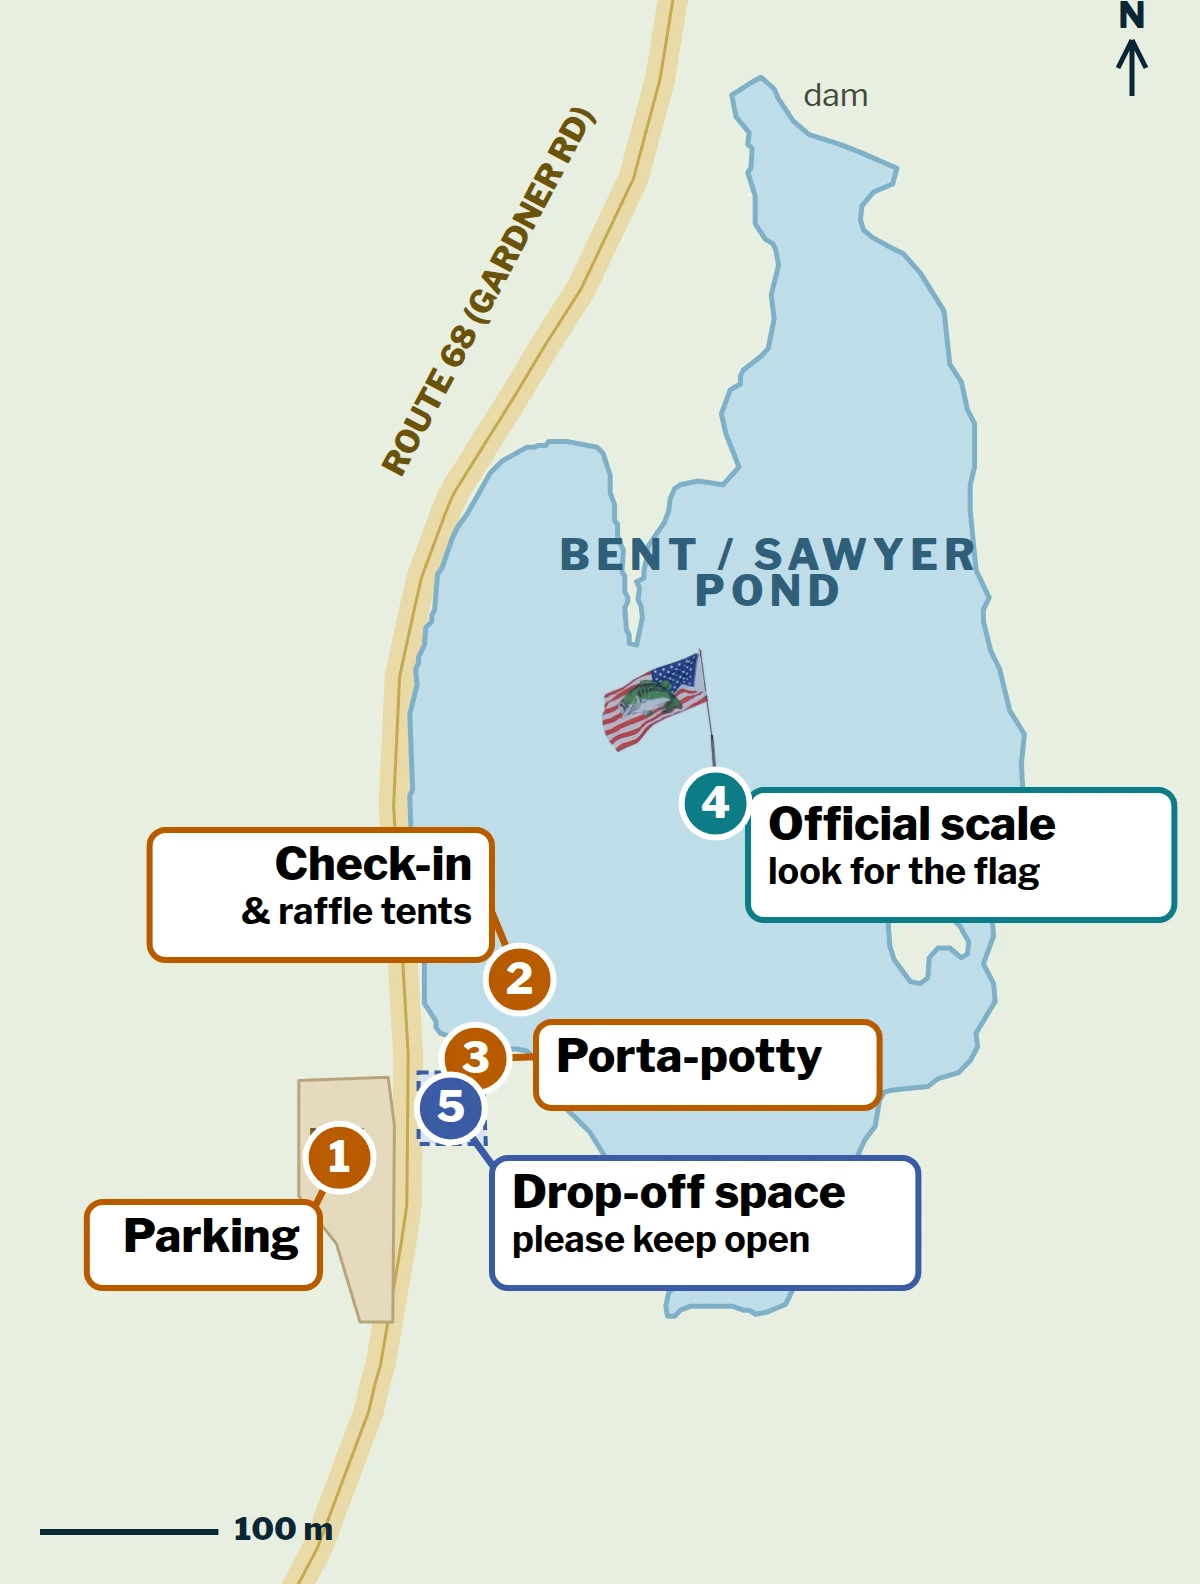
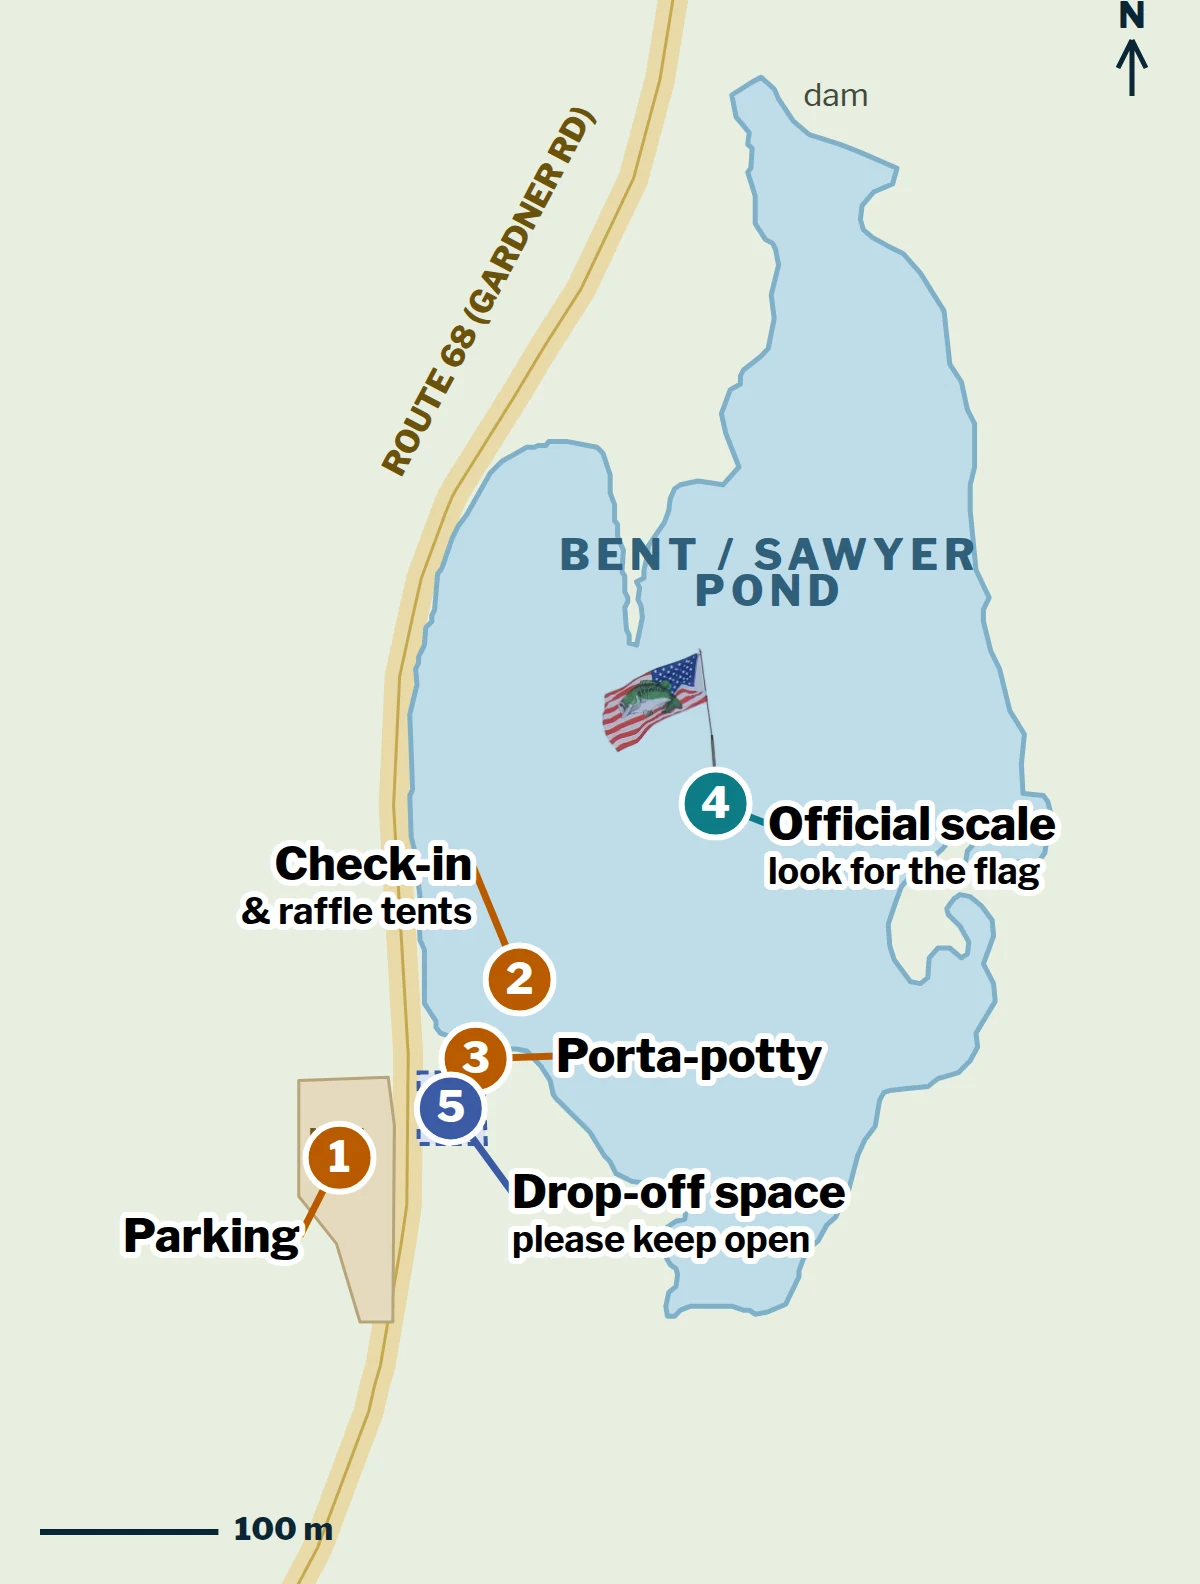
Kids' Prizes block, Kids' Fish Guide into FAQ (collapsed), phone map without boxes

diff --git a/index.html b/index.html
@@ -472,6 +472,14 @@
   .cat-youth{position:relative;margin-top:14px;padding-top:12px;border-top:1px dashed var(--accent2);display:flex;gap:8px;align-items:flex-start;font-size:.85rem;line-height:1.4;}
   .cat-youth svg{width:20px;height:21px;flex:none;color:var(--accent2);}
   .cat-youth b{color:var(--accent2);}
+  /* Overall vs Kids' prizes */
+  .cat-group-badge--all{background:var(--bg-sunken);color:var(--text-muted);}
+  .kids-prizes{margin-top:30px;padding:20px 18px 18px;border:2px solid var(--accent2);border-radius:16px;background:var(--accent2-bg);}
+  .kids-prizes .cat-group-label{font-size:.9rem;margin-bottom:8px;}
+  .kids-lead{margin:0 0 14px;font-size:1rem;line-height:1.5;max-width:60ch;}
+  .kids-note{margin:14px 0 0;color:var(--text-muted);font-size:.9rem;max-width:60ch;}
+  .kids-prizes .cat-card{background:var(--bg-card);}
+  #prizes .kids-prizes .cat-card .fish-wm{top:auto;bottom:12px;right:12px;}
   .note{margin:18px 0 14px;color:var(--text-muted);font-size:.92rem;max-width:60ch;}
   .rule-group{margin-top:26px;}
   .rule-group-title{font-family:'Bebas Neue',sans-serif;font-weight:400;font-size:1.5rem;letter-spacing:.04em;margin:0 0 12px;color:var(--text);}
@@ -962,7 +970,7 @@ details.faq-item>:not(summary){margin-bottom:16px;}
     <div class="block-head">
       <div class="block-kicker">What You Could Win</div>
       <h2 class="block-title">Categories &amp; Prizes</h2>
-      <p class="block-desc">Three species, one weigh-in station. The top four fish in each species win cash &mdash; and young anglers get their own prize on top. Proceeds after costs go toward pond stocking and youth fishing gear.</p>
+      <p class="block-desc">Three species, one weigh-in station. The top four fish in each species win cash, whatever your age &mdash; and kids 12 &amp; under compete for prizes of their own. Proceeds after costs go toward pond stocking and youth fishing gear.</p>
     </div>
 
     <!-- Fish silhouettes, vector-traced from species ID outlines. Defined once
@@ -974,6 +982,7 @@ details.faq-item>:not(summary){margin-bottom:16px;}
       <symbol id="rosette" viewBox="0 0 100 104" preserveAspectRatio="xMidYMid meet"><path d="M38,64 L30,100 L47,90 L50,100 L53,90 L70,100 L62,64 Z" fill="currentColor" opacity=".75"/><path d="M50.0,12.0 L56.2,18.8 L65.0,16.0 L67.0,25.0 L76.0,27.0 L73.2,35.8 L80.0,42.0 L73.2,48.2 L76.0,57.0 L67.0,59.0 L65.0,68.0 L56.2,65.2 L50.0,72.0 L43.8,65.2 L35.0,68.0 L33.0,59.0 L24.0,57.0 L26.8,48.2 L20.0,42.0 L26.8,35.8 L24.0,27.0 L33.0,25.0 L35.0,16.0 L43.8,18.8 Z" fill="currentColor"/><circle cx="50" cy="42" r="13" fill="var(--bg-card)"/></symbol>
     </svg>
 
+    <div class="cat-group-label">Overall Prizes <span class="cat-group-badge cat-group-badge--all">Any Age</span></div>
     <div class="cat-grid" style="grid-template-columns:repeat(auto-fit,minmax(240px,1fr));">
         <div class="cat-card cat-card--pickerel">
           <svg class="fish-wm" aria-hidden="true"><use href="#fish-pickerel"/></svg>
@@ -985,10 +994,6 @@ details.faq-item>:not(summary){margin-bottom:16px;}
             <div><span>2ND</span><b>$75</b></div>
             <div><span>3RD</span><b>$50</b></div>
             <div><span>4TH</span><b>$20</b></div>
-          </div>
-          <div class="cat-youth">
-            <svg aria-hidden="true"><use href="#rosette"/></svg>
-            <span><b>Youth, 12 &amp; under:</b> biggest pickerel wins donated gear.</span>
           </div>
         </div>
         <div class="cat-card cat-card--bass">
@@ -1002,10 +1007,6 @@ details.faq-item>:not(summary){margin-bottom:16px;}
             <div><span>3RD</span><b>$50</b></div>
             <div><span>4TH</span><b>$20</b></div>
           </div>
-          <div class="cat-youth">
-            <svg aria-hidden="true"><use href="#rosette"/></svg>
-            <span><b>Youth, 12 &amp; under:</b> biggest bass wins donated gear.</span>
-          </div>
         </div>
         <div class="cat-card cat-card--perch">
           <svg class="fish-wm" aria-hidden="true"><use href="#fish-perch"/></svg>
@@ -1018,19 +1019,51 @@ details.faq-item>:not(summary){margin-bottom:16px;}
             <div><span>3RD</span><b>$50</b></div>
             <div><span>4TH</span><b>$20</b></div>
           </div>
-          <div class="cat-youth">
-            <svg aria-hidden="true"><use href="#rosette"/></svg>
-            <span><b>Youth, 12 &amp; under:</b> biggest perch wins donated gear.</span>
-          </div>
         </div>
     </div>
 
-    <p class="note">The cash places are open to anglers of any age &mdash; a youth catch that ranks in the top 4 by weight wins that cash prize too, on top of the youth prize.</p>
+    <p class="note">The cash places are open to anglers of any age &mdash; a kid&rsquo;s catch that ranks in the top 4 by weight wins that cash prize too, on top of the Kids&rsquo; Prize gear.</p>
 
-    <div id="youthPrizesWrap" hidden>
-      <div class="block-kicker" style="margin-top:8px;">Youth Prizes &mdash; Donated Gear</div>
-      <div id="youthPrizesEmpty" class="lb-empty" hidden></div>
-      <div id="youthPrizesGrid" class="prize-photo-grid"></div>
+    <div class="kids-prizes" id="kids-prizes">
+      <div class="cat-group-label cat-group-label--youth">Kids&rsquo; Prizes <span class="cat-group-badge">12 &amp; Under</span></div>
+      <p class="kids-lead">Young anglers get their own prizes. The biggest fish of each species, by weight, wins donated fishing gear &mdash; one winner per species.</p>
+      <div class="cat-grid">
+        <div class="cat-card cat-card--youth cat-card--pickerel">
+          <svg class="fish-wm" aria-hidden="true"><use href="#fish-pickerel"/></svg>
+          <svg class="rosette" aria-hidden="true"><use href="#rosette"/></svg>
+          <span class="fish-pair">
+            <svg class="fish" aria-hidden="true"><use href="#fish-pickerel"/></svg>
+            <svg class="fish-jr" aria-hidden="true"><use href="#fish-pickerel"/></svg>
+          </span>
+          <h3>Youth Pickerel</h3>
+          <p>Biggest fish wins donated gear</p>
+        </div>
+        <div class="cat-card cat-card--youth cat-card--bass">
+          <svg class="fish-wm" aria-hidden="true"><use href="#fish-bass"/></svg>
+          <svg class="rosette" aria-hidden="true"><use href="#rosette"/></svg>
+          <span class="fish-pair">
+            <svg class="fish" aria-hidden="true"><use href="#fish-bass"/></svg>
+            <svg class="fish-jr" aria-hidden="true"><use href="#fish-bass"/></svg>
+          </span>
+          <h3>Youth Bass</h3>
+          <p>Biggest fish wins donated gear</p>
+        </div>
+        <div class="cat-card cat-card--youth cat-card--perch">
+          <svg class="fish-wm" aria-hidden="true"><use href="#fish-perch"/></svg>
+          <svg class="rosette" aria-hidden="true"><use href="#rosette"/></svg>
+          <span class="fish-pair">
+            <svg class="fish" aria-hidden="true"><use href="#fish-perch"/></svg>
+            <svg class="fish-jr" aria-hidden="true"><use href="#fish-perch"/></svg>
+          </span>
+          <h3>Youth Perch</h3>
+          <p>Biggest fish wins donated gear</p>
+        </div>
+      </div>
+      <div id="youthPrizesWrap" hidden>
+        <div class="block-kicker" style="margin-top:14px;">The Gear &mdash; Donated Prizes</div>
+        <div id="youthPrizesEmpty" class="lb-empty" hidden></div>
+        <div id="youthPrizesGrid" class="prize-photo-grid"></div>
+      </div>
     </div>
     <p class="note" style="margin-top:6px;">Prizes increase if the derby draws more than 100 entrants &mdash; last year topped 130. All prizes are awarded after the derby, back at the club.</p>
   </section>
@@ -1067,39 +1100,6 @@ details.faq-item>:not(summary){margin-bottom:16px;}
         <li><span class="rule-num">11</span><span>Please respect the pond: carry in, carry out, and leave no trash behind. No fires or motorized vehicles are permitted on the ice.</span></li>
       </ol>
     </div>
-  </section>
-
-
-  <section class="block" id="fish-guide">
-    <div class="block-head">
-      <div class="block-kicker">Know Your Catch</div>
-      <h2 class="block-title">Kids&rsquo; Fish Guide</h2>
-      <p class="block-desc">Three kinds of fish count in the derby. Here&rsquo;s how to tell them apart &mdash; and how big they have to be.</p>
-    </div>
-    <div class="fg-grid">
-      <div class="fg-card fg-card--pickerel">
-        <svg class="fg-fish" aria-hidden="true"><use href="#fish-pickerel"/></svg>
-        <h3>Pickerel</h3>
-        <p class="fg-tag">Long, skinny, and toothy.</p>
-        <ul><li>Green sides with dark <b>chain-link</b> marks</li><li>Long, flat snout like a duck bill</li><li>Sharp teeth &mdash; use pliers, not fingers!</li></ul>
-        <span class="fg-min">Must be 16&Prime; or longer</span>
-      </div>
-      <div class="fg-card fg-card--bass">
-        <svg class="fg-fish" aria-hidden="true"><use href="#fish-bass"/></svg>
-        <h3>Bass</h3>
-        <p class="fg-tag">Big mouth, big fight.</p>
-        <ul><li>Green back with a dark stripe down the side</li><li>Mouth reaches back past the eye</li><li>Two joined fins along its back</li></ul>
-        <span class="fg-min">Must be 14&Prime; or longer</span>
-      </div>
-      <div class="fg-card fg-card--perch">
-        <svg class="fg-fish" aria-hidden="true"><use href="#fish-perch"/></svg>
-        <h3>Yellow Perch</h3>
-        <p class="fg-tag">Small, golden, and a common catch.</p>
-        <ul><li>Gold-yellow with dark <b>tiger stripes</b></li><li>Spiky fin on its back &mdash; careful!</li><li>Orange-ish fins on the bottom</li></ul>
-        <span class="fg-min">Must be 8&Prime; or longer</span>
-      </div>
-    </div>
-    <p class="note"><b>How to measure:</b> lay the fish flat, from the tip of its mouth to the tip of its tail. <b>Keep it alive</b> in a bucket until weigh-in &mdash; dead fish can&rsquo;t be weighed. Kids 12 &amp; under: your biggest fish of each kind can win donated gear!</p>
   </section>
 
   <section class="block" id="weather">
@@ -1263,6 +1263,34 @@ details.faq-item>:not(summary){margin-bottom:16px;}
       <h2 class="block-title">FAQ</h2>
     </div>
     <div class="faq">
+      <div class="faq-item" id="fish-guide">
+        <h3>Kids&rsquo; Fish Guide &mdash; how to tell the fish apart</h3>
+        <p>Three kinds of fish count in the derby. Here&rsquo;s how to tell them apart &mdash; and how big they have to be.</p>
+        <div class="fg-grid">
+      <div class="fg-card fg-card--pickerel">
+        <svg class="fg-fish" aria-hidden="true"><use href="#fish-pickerel"/></svg>
+        <h3>Pickerel</h3>
+        <p class="fg-tag">Long, skinny, and toothy.</p>
+        <ul><li>Green sides with dark <b>chain-link</b> marks</li><li>Long, flat snout like a duck bill</li><li>Sharp teeth &mdash; use pliers, not fingers!</li></ul>
+        <span class="fg-min">Must be 16&Prime; or longer</span>
+      </div>
+      <div class="fg-card fg-card--bass">
+        <svg class="fg-fish" aria-hidden="true"><use href="#fish-bass"/></svg>
+        <h3>Bass</h3>
+        <p class="fg-tag">Big mouth, big fight.</p>
+        <ul><li>Green back with a dark stripe down the side</li><li>Mouth reaches back past the eye</li><li>Two joined fins along its back</li></ul>
+        <span class="fg-min">Must be 14&Prime; or longer</span>
+      </div>
+      <div class="fg-card fg-card--perch">
+        <svg class="fg-fish" aria-hidden="true"><use href="#fish-perch"/></svg>
+        <h3>Yellow Perch</h3>
+        <p class="fg-tag">Small, golden, and a common catch.</p>
+        <ul><li>Gold-yellow with dark <b>tiger stripes</b></li><li>Spiky fin on its back &mdash; careful!</li><li>Orange-ish fins on the bottom</li></ul>
+        <span class="fg-min">Must be 8&Prime; or longer</span>
+      </div>
+    </div>
+        <p class="note"><b>How to measure:</b> lay the fish flat, from the tip of its mouth to the tip of its tail. <b>Keep it alive</b> in a bucket until weigh-in &mdash; dead fish can&rsquo;t be weighed. Kids 12 &amp; under: your biggest fish of each kind can win donated gear!</p>
+      </div>
       <div class="faq-item">
         <h3>Do I need a fishing license?</h3>
         <p>Yes — anyone 16 or older needs a current Massachusetts freshwater fishing license. It's each angler's own responsibility to be properly licensed before fishing.</p>
